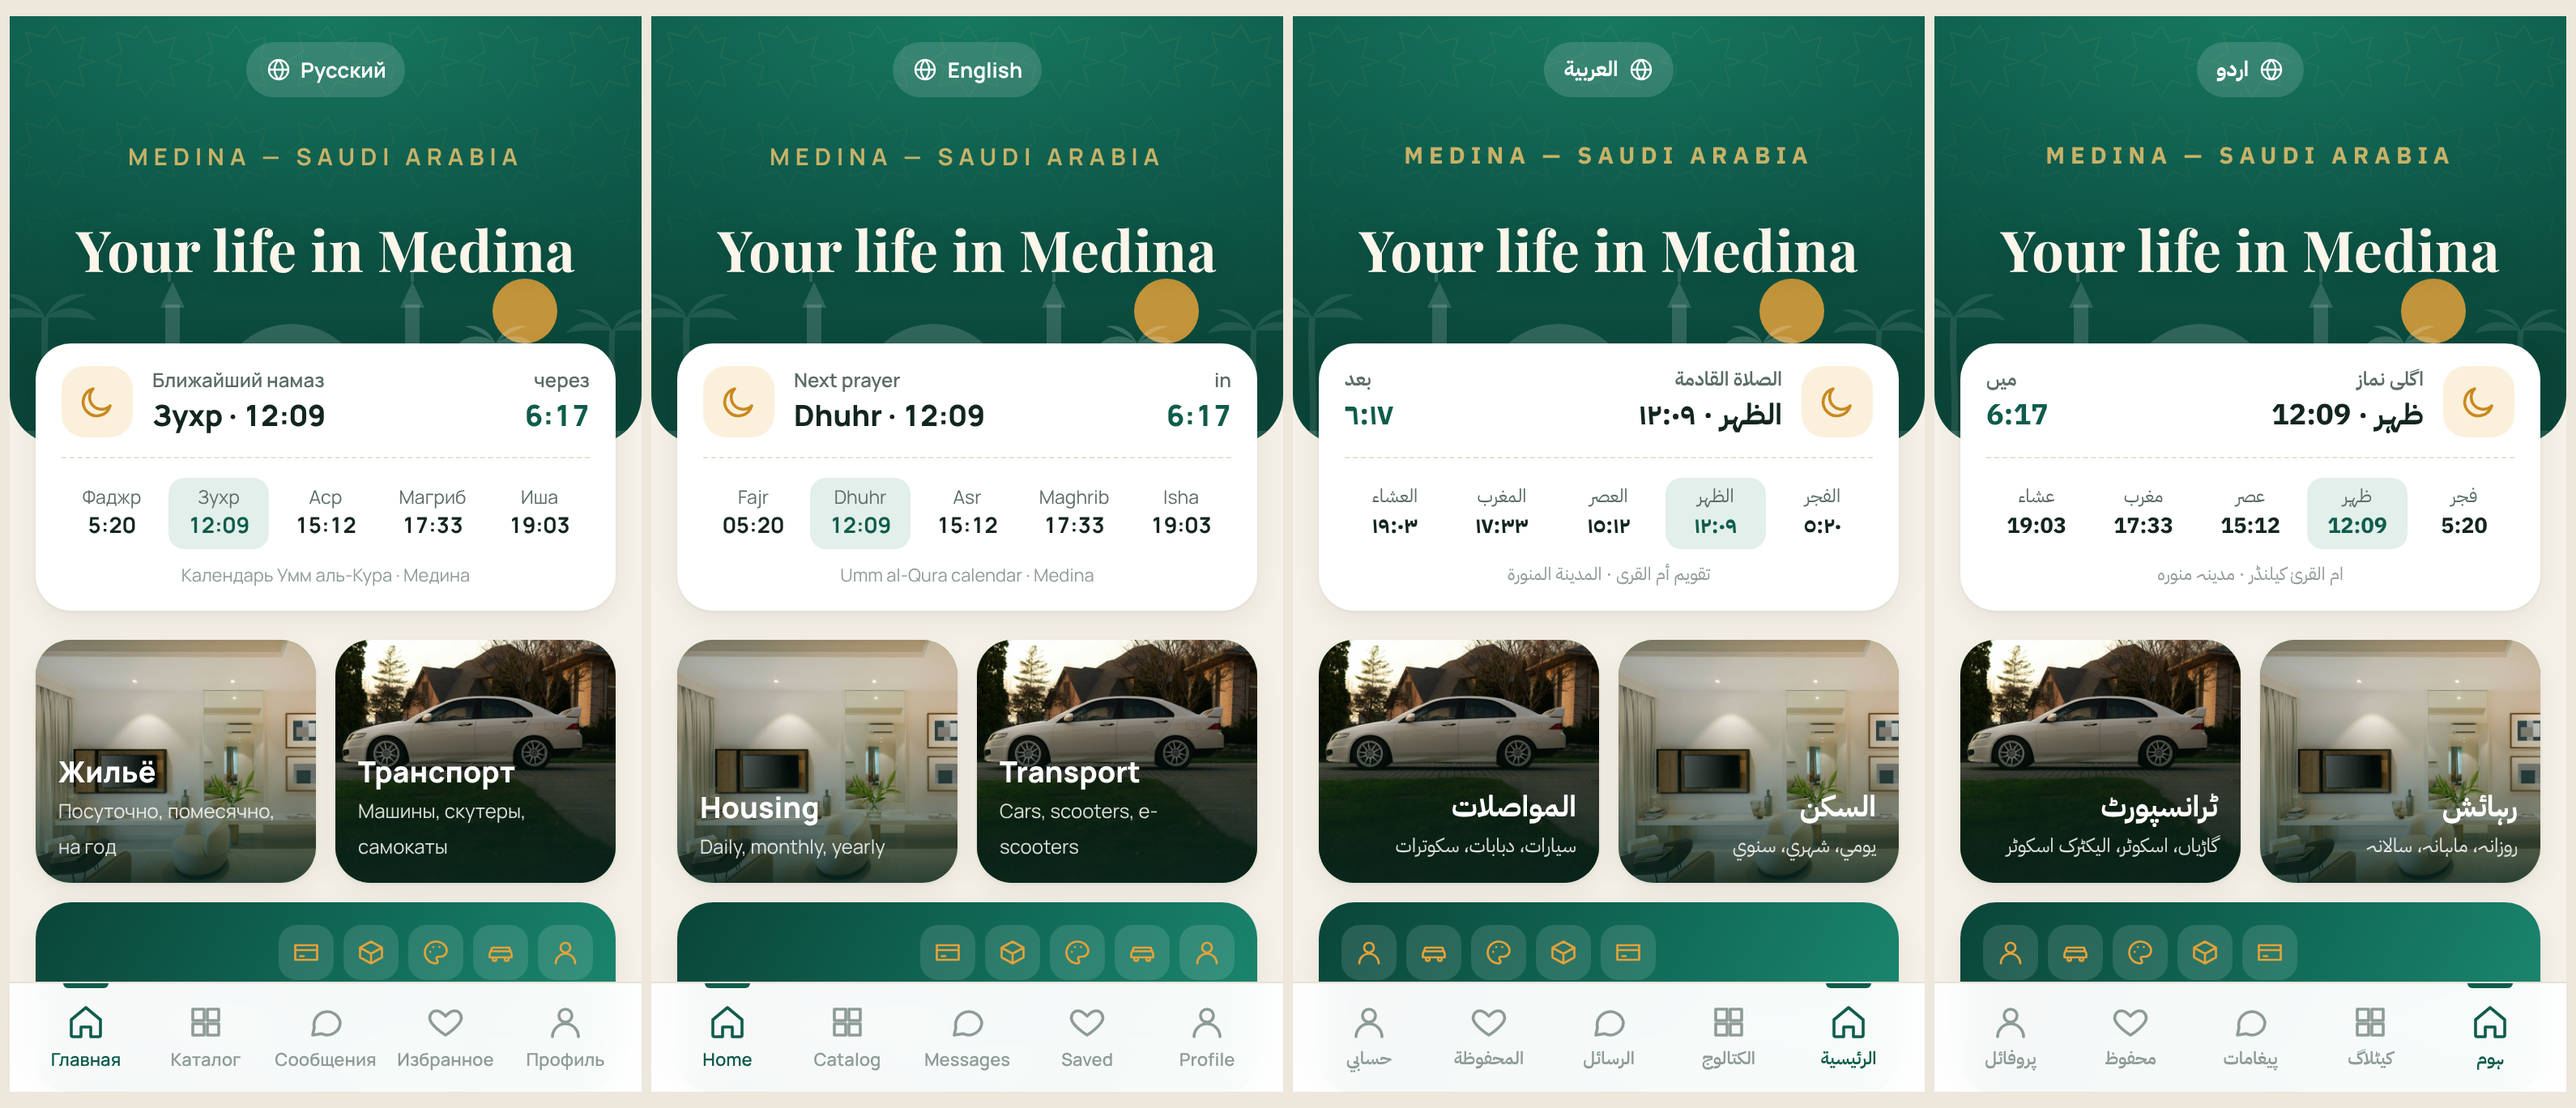
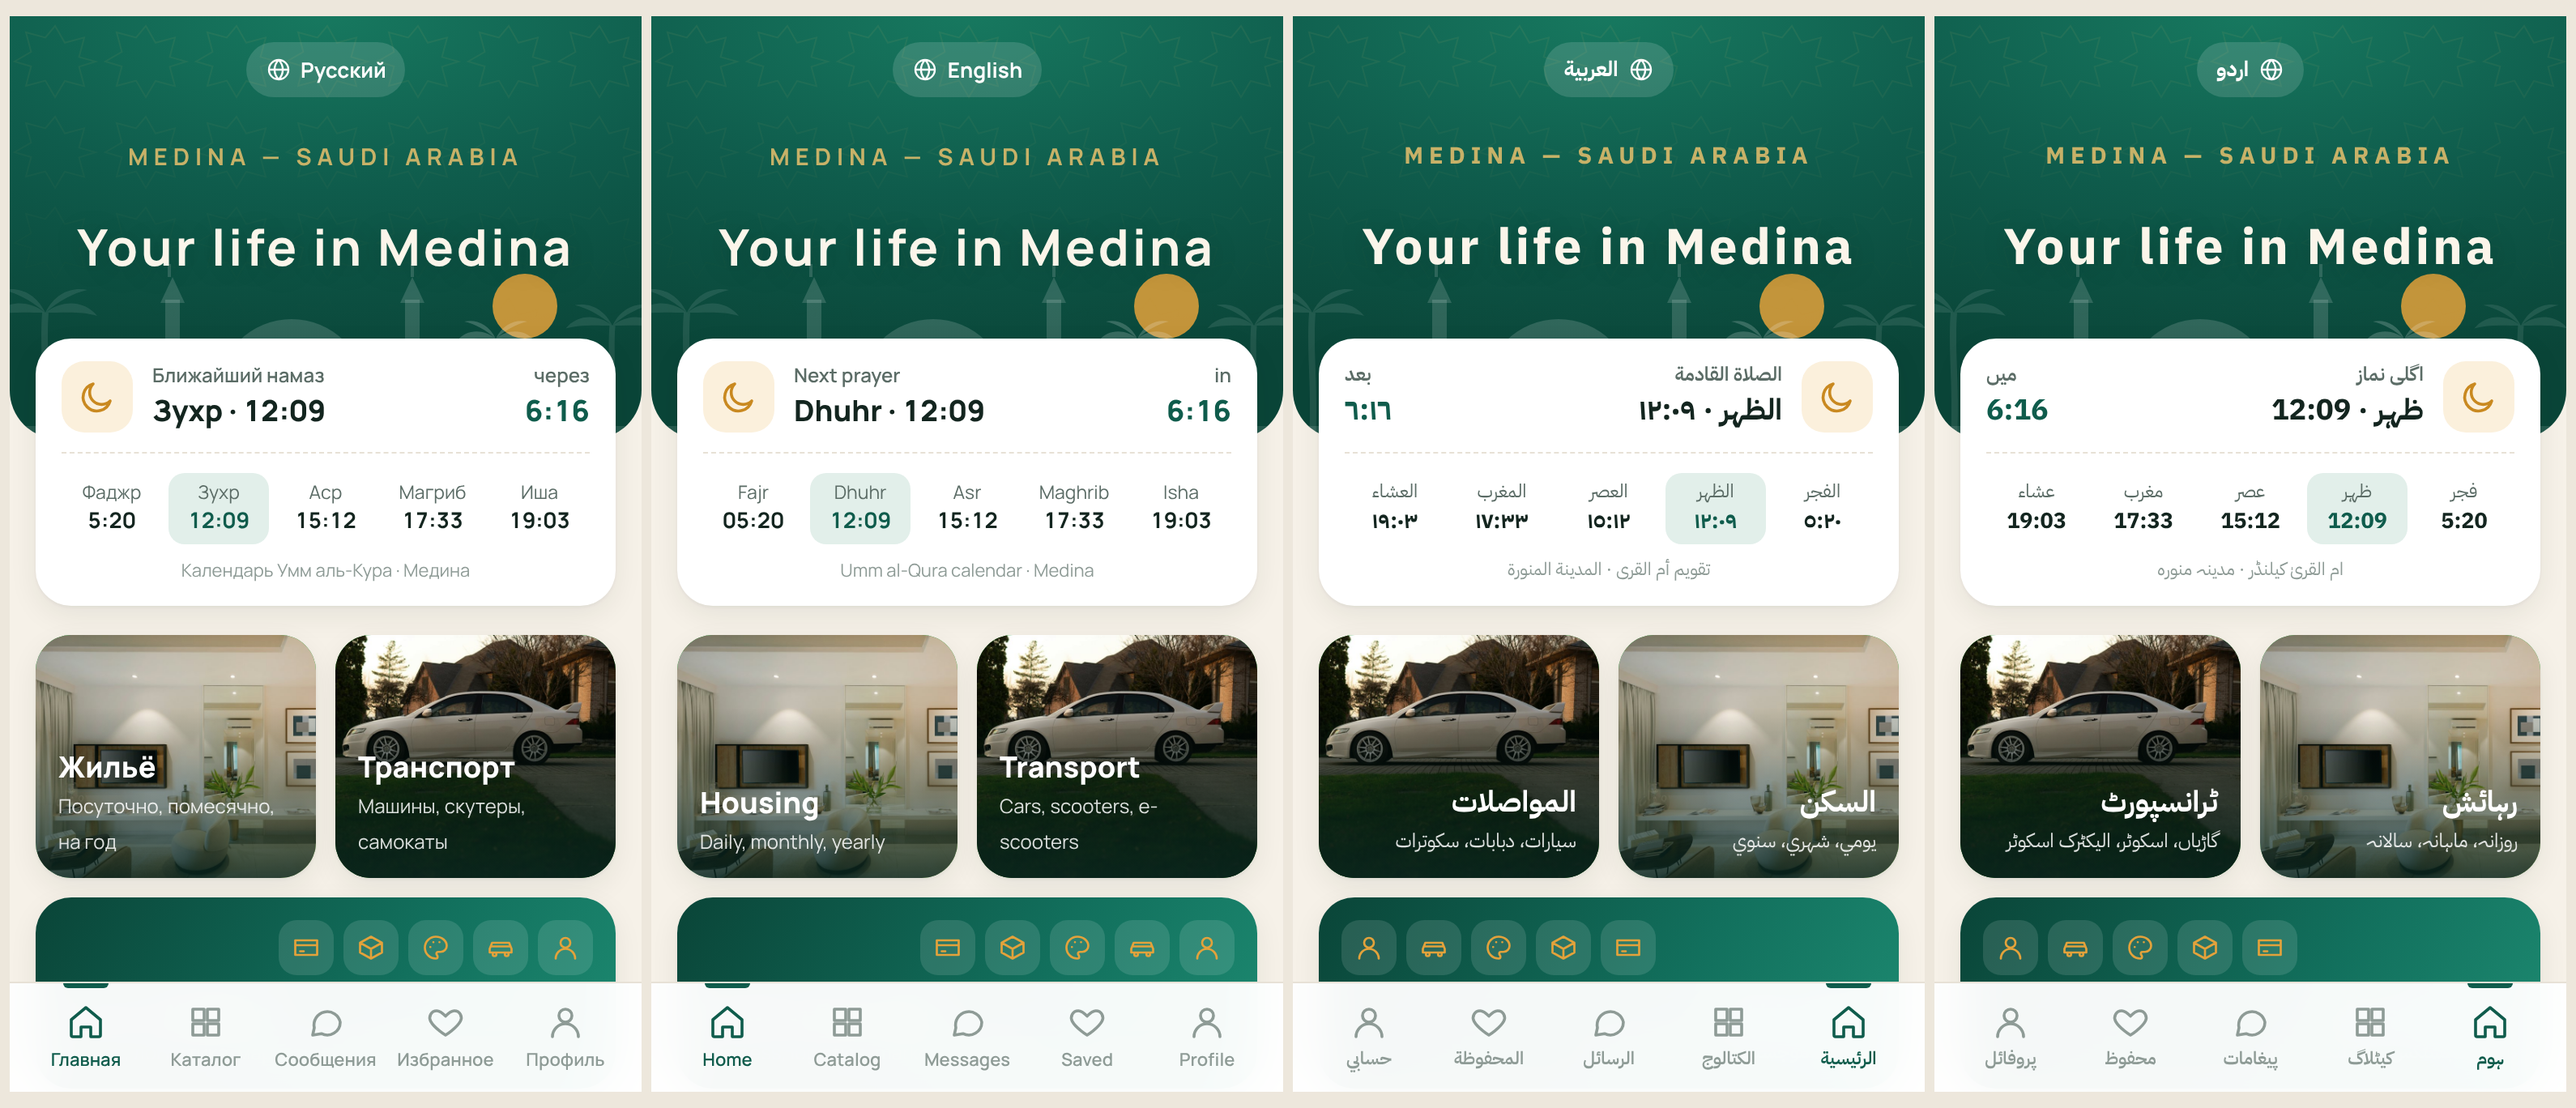
Draft: 'Your life in Medina' in plain sans font with wider letter spacing — not published
Claude-Session: https://claude.ai/code/session_01BhYsyRGkijV8fKCZbgF8Zs

diff --git a/magaam/index.html b/magaam/index.html
@@ -1019,7 +1019,7 @@ html,body{max-width:100%;overflow-x:clip}
 .hero3-only{display:inline-flex;align-items:center;gap:6px;margin-top:16px;padding:7px 14px;border-radius:20px;background:rgba(10,69,56,.55);border:1px solid rgba(240,196,110,.35);font-size:13px;font-weight:600;color:#FBF5EA;backdrop-filter:blur(6px);-webkit-backdrop-filter:blur(6px)}.hero3-only svg{width:15px;height:15px;color:#F0C46E}
 .hero.hero3:has(.hero4){padding-bottom:96px}
 .hero4{padding-top:26px}
-.hero4-big{font-family:'Playfair Display',Georgia,serif;font-weight:700;font-size:35px;line-height:1.1;margin:12px 0 4px;color:#FBF5EA;letter-spacing:.2px;text-shadow:0 2px 18px rgba(0,0,0,.18)}
+.hero4-big{font-family:inherit;font-weight:700;font-size:31px;line-height:1.15;margin:12px 0 4px;color:#FBF5EA;letter-spacing:.06em;text-shadow:0 2px 18px rgba(0,0,0,.18)}
 .hero4-ayah{margin:0;max-width:32ch}.hero4-ayah blockquote{margin:0;font-family:'Amiri',serif;font-size:26px;line-height:1.6;color:#F0C46E;font-weight:700}.hero4-ayah figcaption{font-family:'Playfair Display','Amiri',Georgia,serif;font-style:italic;font-size:15px;line-height:1.45;color:rgba(251,245,234,.88);margin-top:2px}.hero4-ayah cite{display:block;font-style:normal;font-size:11.5px;letter-spacing:.14em;text-transform:uppercase;color:rgba(240,196,110,.75);margin-top:6px}
 .hero4 .hero3-logo{width:92px;height:92px;border-radius:26px;margin-top:30px}
 .hero4-name{font-family:'Playfair Display',Georgia,serif;font-weight:700;font-size:40px;line-height:1;margin:16px 0 0;color:#FBF5EA;letter-spacing:.5px}

diff --git a/nakhlio/index.html b/nakhlio/index.html
@@ -1010,7 +1010,7 @@ html,body{max-width:100%;overflow-x:clip}
 .hero3-only{display:inline-flex;align-items:center;gap:6px;margin-top:16px;padding:7px 14px;border-radius:20px;background:rgba(10,69,56,.55);border:1px solid rgba(240,196,110,.35);font-size:13px;font-weight:600;color:#FBF5EA;backdrop-filter:blur(6px);-webkit-backdrop-filter:blur(6px)}.hero3-only svg{width:15px;height:15px;color:#F0C46E}
 .hero.hero3:has(.hero4){padding-bottom:96px}
 .hero4{padding-top:26px}
-.hero4-big{font-family:'Playfair Display',Georgia,serif;font-weight:700;font-size:35px;line-height:1.1;margin:12px 0 4px;color:#FBF5EA;letter-spacing:.2px;text-shadow:0 2px 18px rgba(0,0,0,.18)}
+.hero4-big{font-family:inherit;font-weight:700;font-size:31px;line-height:1.15;margin:12px 0 4px;color:#FBF5EA;letter-spacing:.06em;text-shadow:0 2px 18px rgba(0,0,0,.18)}
 .hero4-ayah{margin:0;max-width:32ch}.hero4-ayah blockquote{margin:0;font-family:'Amiri',serif;font-size:26px;line-height:1.6;color:#F0C46E;font-weight:700}.hero4-ayah figcaption{font-family:'Playfair Display','Amiri',Georgia,serif;font-style:italic;font-size:15px;line-height:1.45;color:rgba(251,245,234,.88);margin-top:2px}.hero4-ayah cite{display:block;font-style:normal;font-size:11.5px;letter-spacing:.14em;text-transform:uppercase;color:rgba(240,196,110,.75);margin-top:6px}
 .hero4 .hero3-logo{width:92px;height:92px;border-radius:26px;margin-top:30px}
 .hero4-name{font-family:'Playfair Display',Georgia,serif;font-weight:700;font-size:40px;line-height:1;margin:16px 0 0;color:#FBF5EA;letter-spacing:.5px}
